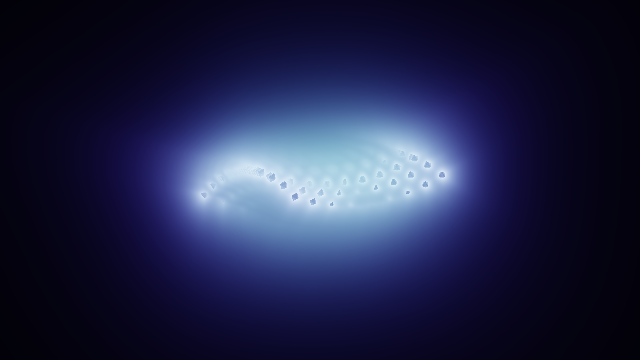
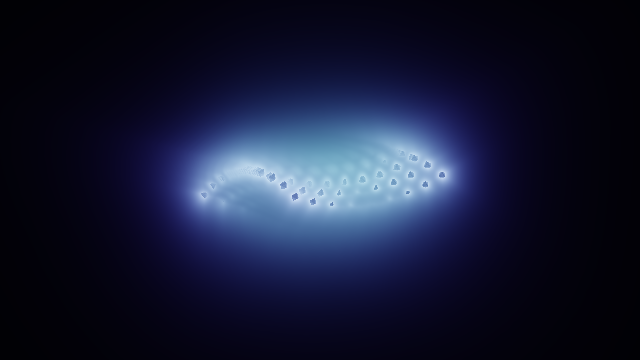
Add Kaleidoscope wallpaper and make Fractal Pyramid audio drive line brightness
Fractal Pyramid: audio no longer changes the motion. The rotation, fold and camera are time-only; the 64 logarithmic bands now modulate the brightness of the fractal lines by frequency (inner detail follows lows, outer highs), with a small floor so it stays calm at silence.

New Kaleidoscope built-in: an original clean-room HYPNIX implementation of the generic kaleidoscope-mandala concept (polar fold into N mirrored wedges over our own layered ring/petal field, subtle chromatic split, palette tint, vignette, ACES tonemap). No third-party shader code; only the general concept was used. Time-based calm motion; audio drives ring brightness by frequency; Intensity=0 resolves to black. Wired through kind/mode/factory/host/session and the 64-band spectrum feed, with a proprietary wallpaper package (rendered preview) and native-smoke coverage.

Validated: 108 tests and full native smoke (animation, audio response, controls, viewport origin, lifecycle) pass; both shaders confirmed rendering live in the app on real GPU. Gallery now lists 11 cards.

diff --git a/Services/NativeWallpaperHost.cs b/Services/NativeWallpaperHost.cs
@@ -21,7 +21,8 @@ internal enum NativeRenderMode
     NeonRibbons,
     LiquidOrbs,
     EventHorizon,
-    FractalPyramid
+    FractalPyramid,
+    Kaleidoscope
 }
 
 internal sealed partial class NativeWallpaperHost : IDisposable
@@ -124,7 +125,7 @@ internal sealed partial class NativeWallpaperHost : IDisposable
         }
         EnsureWindowClassRegistered();
         var extendedStyle = WsExNoActivate | WsExToolWindow | WsExTransparent;
-        if (preview is null && renderMode is not (NativeRenderMode.AethelisVisualizer or NativeRenderMode.AethelisFlameBurst or NativeRenderMode.FlamethrowerRingV2 or NativeRenderMode.VolumetricFire or NativeRenderMode.SpectralBloom or NativeRenderMode.NeonRibbons or NativeRenderMode.LiquidOrbs or NativeRenderMode.EventHorizon or NativeRenderMode.FractalPyramid)) extendedStyle |= WsExLayered;
+        if (preview is null && renderMode is not (NativeRenderMode.AethelisVisualizer or NativeRenderMode.AethelisFlameBurst or NativeRenderMode.FlamethrowerRingV2 or NativeRenderMode.VolumetricFire or NativeRenderMode.SpectralBloom or NativeRenderMode.NeonRibbons or NativeRenderMode.LiquidOrbs or NativeRenderMode.EventHorizon or NativeRenderMode.FractalPyramid or NativeRenderMode.Kaleidoscope)) extendedStyle |= WsExLayered;
         Handle = CreateWindowEx(
             extendedStyle,
             WindowClassName,
@@ -145,7 +146,7 @@ internal sealed partial class NativeWallpaperHost : IDisposable
         }
 
         Marshal.SetLastPInvokeError(0);
-        var alphaResult = preview is not null || renderMode is NativeRenderMode.AethelisVisualizer or NativeRenderMode.AethelisFlameBurst or NativeRenderMode.FlamethrowerRingV2 or NativeRenderMode.VolumetricFire or NativeRenderMode.SpectralBloom or NativeRenderMode.NeonRibbons or NativeRenderMode.LiquidOrbs or NativeRenderMode.EventHorizon or NativeRenderMode.FractalPyramid ||
+        var alphaResult = preview is not null || renderMode is NativeRenderMode.AethelisVisualizer or NativeRenderMode.AethelisFlameBurst or NativeRenderMode.FlamethrowerRingV2 or NativeRenderMode.VolumetricFire or NativeRenderMode.SpectralBloom or NativeRenderMode.NeonRibbons or NativeRenderMode.LiquidOrbs or NativeRenderMode.EventHorizon or NativeRenderMode.FractalPyramid or NativeRenderMode.Kaleidoscope ||
                           SetLayeredWindowAttributes(Handle, 0, 255, LwaAlpha);
         AppLog.Write($"Native host created. Handle=0x{Handle.ToInt64():X}; alphaResult={alphaResult}; " +
                      $"error={Marshal.GetLastPInvokeError()}");
@@ -198,7 +199,7 @@ internal sealed partial class NativeWallpaperHost : IDisposable
 
     private void InitializeGpuRenderer()
     {
-        if (_renderMode is not (NativeRenderMode.AethelisVisualizer or NativeRenderMode.AethelisFlameBurst or NativeRenderMode.FlamethrowerRingV2 or NativeRenderMode.VolumetricFire or NativeRenderMode.SpectralBloom or NativeRenderMode.NeonRibbons or NativeRenderMode.LiquidOrbs or NativeRenderMode.EventHorizon or NativeRenderMode.FractalPyramid))
+        if (_renderMode is not (NativeRenderMode.AethelisVisualizer or NativeRenderMode.AethelisFlameBurst or NativeRenderMode.FlamethrowerRingV2 or NativeRenderMode.VolumetricFire or NativeRenderMode.SpectralBloom or NativeRenderMode.NeonRibbons or NativeRenderMode.LiquidOrbs or NativeRenderMode.EventHorizon or NativeRenderMode.FractalPyramid or NativeRenderMode.Kaleidoscope))
             return;
         if (!GetClientRect(Handle, out var client))
             throw new InvalidOperationException("Could not read the Direct3D wallpaper client size.");
@@ -211,6 +212,7 @@ internal sealed partial class NativeWallpaperHost : IDisposable
             NativeRenderMode.LiquidOrbs => "LiquidOrbs.hlsl",
             NativeRenderMode.EventHorizon => "EventHorizon.hlsl",
             NativeRenderMode.FractalPyramid => "FractalPyramid.hlsl",
+            NativeRenderMode.Kaleidoscope => "Kaleidoscope.hlsl",
             NativeRenderMode.VolumetricFire => "HypnixVolumetricFire.hlsl",
             _ => "Aethelis.hlsl"
         };
@@ -358,7 +360,7 @@ internal sealed partial class NativeWallpaperHost : IDisposable
         // Direct3D owns the complete frame for both Aethelis modes. Rendering it
         // here avoids the old nested monitor loop (GDI monitor -> all GPU monitors),
         // which updated active effects on displays that were meant to stay frozen.
-        if ((_renderMode is NativeRenderMode.AethelisVisualizer or NativeRenderMode.AethelisFlameBurst or NativeRenderMode.FlamethrowerRingV2 or NativeRenderMode.VolumetricFire or NativeRenderMode.SpectralBloom or NativeRenderMode.NeonRibbons or NativeRenderMode.LiquidOrbs or NativeRenderMode.EventHorizon or NativeRenderMode.FractalPyramid) &&
+        if ((_renderMode is NativeRenderMode.AethelisVisualizer or NativeRenderMode.AethelisFlameBurst or NativeRenderMode.FlamethrowerRingV2 or NativeRenderMode.VolumetricFire or NativeRenderMode.SpectralBloom or NativeRenderMode.NeonRibbons or NativeRenderMode.LiquidOrbs or NativeRenderMode.EventHorizon or NativeRenderMode.FractalPyramid or NativeRenderMode.Kaleidoscope) &&
             _aethelisGpuRenderer is not null)
         {
             RenderAethelisGpuFrame(width, height);

diff --git a/Tests/Hypnix.NativeSmoke/Program.cs b/Tests/Hypnix.NativeSmoke/Program.cs
@@ -48,12 +48,13 @@ internal static class Program
                 NeonRibbonsRenderChecks.Run(parent, output);
                 NeonRibbonsRenderChecks.Run(parent, output, "LiquidOrbs.hlsl", "liquid-orbs");
                 NeonRibbonsRenderChecks.Run(parent, output, "FractalPyramid.hlsl", "fractal-pyramid");
+                NeonRibbonsRenderChecks.Run(parent, output, "Kaleidoscope.hlsl", "kaleidoscope");
                 SpectralBloomRenderChecks.Run(parent, output);
                 EventHorizonRenderChecks.Run(parent, output);
                 foreach (var mode in new[] { NativeRenderMode.Ambient, NativeRenderMode.VisualizerDemo,
                     NativeRenderMode.AethelisVisualizer, NativeRenderMode.AethelisFlameBurst, NativeRenderMode.FlamethrowerRingV2,
                     NativeRenderMode.SpectralBloom, NativeRenderMode.NeonRibbons, NativeRenderMode.LiquidOrbs,
-                    NativeRenderMode.EventHorizon, NativeRenderMode.FractalPyramid })
+                    NativeRenderMode.EventHorizon, NativeRenderMode.FractalPyramid, NativeRenderMode.Kaleidoscope })
                 {
                     using var host = new NativeWallpaperHost(mode, preview: new PreviewTarget(parent, 640, 360));
                     host.Start(30, reveal: false);
@@ -104,7 +105,7 @@ internal static class Program
             foreach (var kind in new[] { WallpaperKind.BuiltIn, WallpaperKind.VisualizerDemo,
                 WallpaperKind.AethelisVisualizer, WallpaperKind.AethelisFlameBurst, WallpaperKind.FlamethrowerRingV2,
                 WallpaperKind.SpectralBloom, WallpaperKind.NeonRibbons, WallpaperKind.LiquidOrbs, WallpaperKind.EventHorizon,
-                WallpaperKind.FractalPyramid })
+                WallpaperKind.FractalPyramid, WallpaperKind.Kaleidoscope })
             {
                 if (!gallery.Items.OfType<WallpaperEntry>().Any(entry => entry.Kind == kind))
                     throw new InvalidOperationException($"Built-in wallpaper missing from the gallery: {kind}");

diff --git a/Services/AethelisGpuRenderer.cs b/Services/AethelisGpuRenderer.cs
@@ -43,6 +43,8 @@ internal sealed partial class AethelisGpuRenderer : IDisposable
     private readonly bool _usesFluidSimulation;
     private readonly bool _usesFeedback;
     private readonly bool _usesEventHorizon;
+    private readonly bool _usesFractalPyramid;
+    private readonly bool _usesKaleidoscope;
     private readonly bool _usesLiquidOrbs;
     private readonly ID3D11SamplerState? _linearSampler;
     private readonly string _effectPath;
@@ -95,6 +97,8 @@ internal sealed partial class AethelisGpuRenderer : IDisposable
             }
             _usesFeedback = string.Equals(shaderFileName, "SpectralBloom.hlsl", StringComparison.OrdinalIgnoreCase);
             _usesEventHorizon = string.Equals(shaderFileName, "EventHorizon.hlsl", StringComparison.OrdinalIgnoreCase);
+            _usesFractalPyramid = string.Equals(shaderFileName, "FractalPyramid.hlsl", StringComparison.OrdinalIgnoreCase);
+            _usesKaleidoscope = string.Equals(shaderFileName, "Kaleidoscope.hlsl", StringComparison.OrdinalIgnoreCase);
             _usesLiquidOrbs = string.Equals(shaderFileName, "LiquidOrbs.hlsl", StringComparison.OrdinalIgnoreCase);
             if (_usesFeedback || _usesEventHorizon)
             {
@@ -188,9 +192,10 @@ internal sealed partial class AethelisGpuRenderer : IDisposable
             }
         }
 
-        if (_usesEventHorizon)
+        if (_usesEventHorizon || _usesFractalPyramid || _usesKaleidoscope)
         {
-            // Capture already smooths attack/release. No extra audio history here.
+            // Feed the 64 logarithmic bands so the shader can drive brightness per frequency.
+            // Capture already smooths attack/release; no extra audio history here.
             for (var i = 0; i < 64; i++)
                 frame.Spectrum[i] = spectrum is { Length: > 0 }
                     ? AethelisAudioProfile.ApplyGain(spectrum[Math.Min(i * spectrum.Length / 64, spectrum.Length - 1)], settings.Sensitivity)

diff --git a/Services/WallpaperSession.cs b/Services/WallpaperSession.cs
@@ -21,7 +21,7 @@ internal sealed class WallpaperSession : IWallpaperSession
             if (_usesAudio) _audioSubscription = AudioSpectrumSource.Subscribe(_host.SubmitAudioBands);
             if (request.Preview is null)
                 DesktopWorker.AttachWallpaperWindow(_host.Handle,
-                    useLayeredWindow: mode is not (NativeRenderMode.AethelisVisualizer or NativeRenderMode.AethelisFlameBurst or NativeRenderMode.FlamethrowerRingV2 or NativeRenderMode.VolumetricFire or NativeRenderMode.SpectralBloom or NativeRenderMode.NeonRibbons or NativeRenderMode.LiquidOrbs or NativeRenderMode.EventHorizon or NativeRenderMode.FractalPyramid));
+                    useLayeredWindow: mode is not (NativeRenderMode.AethelisVisualizer or NativeRenderMode.AethelisFlameBurst or NativeRenderMode.FlamethrowerRingV2 or NativeRenderMode.VolumetricFire or NativeRenderMode.SpectralBloom or NativeRenderMode.NeonRibbons or NativeRenderMode.LiquidOrbs or NativeRenderMode.EventHorizon or NativeRenderMode.FractalPyramid or NativeRenderMode.Kaleidoscope));
             _host.Start(request.FramesPerSecond, reveal: false);
         }
         catch { Dispose(); throw; }

diff --git a/Services/WallpaperRequest.cs b/Services/WallpaperRequest.cs
@@ -27,6 +27,7 @@ internal static class WallpaperSessionFactory
         WallpaperKind.LiquidOrbs => NativeRenderMode.LiquidOrbs,
         WallpaperKind.EventHorizon => NativeRenderMode.EventHorizon,
         WallpaperKind.FractalPyramid => NativeRenderMode.FractalPyramid,
+        WallpaperKind.Kaleidoscope => NativeRenderMode.Kaleidoscope,
         WallpaperKind.VolumetricFire => NativeRenderMode.VolumetricFire,
         WallpaperKind.ExampleVideo => NativeRenderMode.Video,
         _ => NativeRenderMode.Ambient

diff --git a/Services/WallpaperKind.cs b/Services/WallpaperKind.cs
@@ -13,5 +13,6 @@ internal enum WallpaperKind
     NeonRibbons,
     LiquidOrbs,
     EventHorizon,
-    FractalPyramid
+    FractalPyramid,
+    Kaleidoscope
 }

diff --git a/docs/RELAXING_ANIMATION_DESIGN.md b/docs/RELAXING_ANIMATION_DESIGN.md
@@ -131,7 +131,9 @@ The existing HYPNIX built-ins already fall into the two families. Use this to pl
 - **Abstract / fluid (trance, sleep):** Ambient gradient drift, **Neon Ribbons**, **Liquid
   Orbs** (organic metaballs), **Spectral Bloom** (audio-reactive; keep the response gentle),
   **Event Horizon** (symmetric, organic plasma with a calm dark center), **Fractal Pyramid**
-  (kaleidoscopic space-folding glow that stays calm at silence and reacts gently to audio).
+  (kaleidoscopic space-folding glow that stays calm at silence and reacts gently to audio),
+  **Kaleidoscope** (symmetric evolving mandala; time-based motion with audio driving ring
+  brightness by frequency).
 - **Organic / near-real (nature texture):** the Aethelis flame ring, the fire-ring/flamethrower
   Effekseer effects, and **Volumetric Fire** read as a natural element. Fire relaxes through
   flicker and warmth; keep ember motion alive at silence and let bass raise height/pressure
